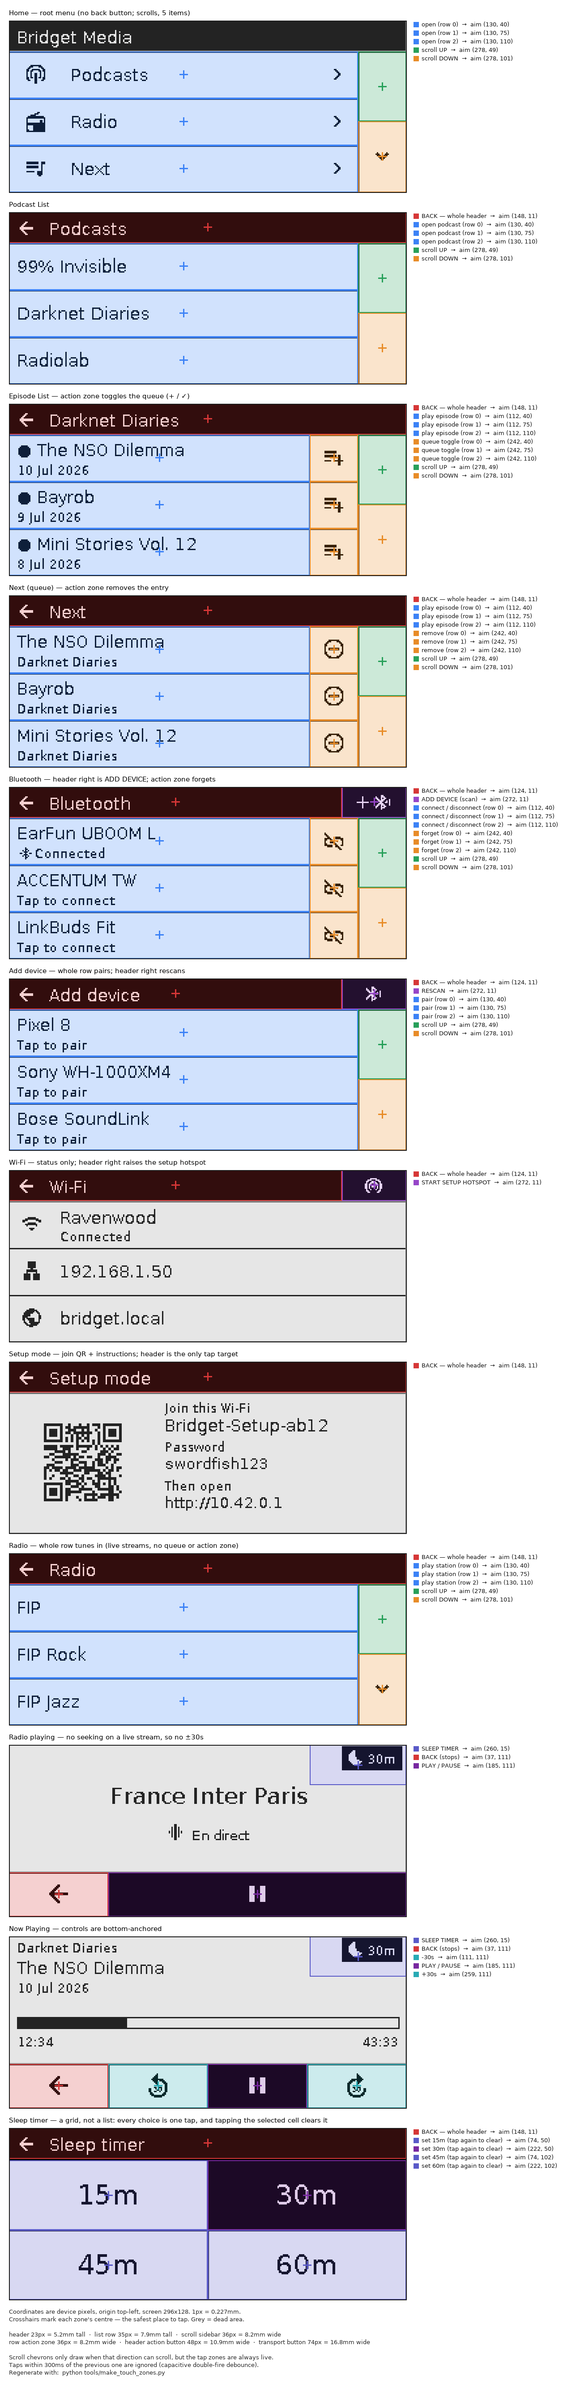
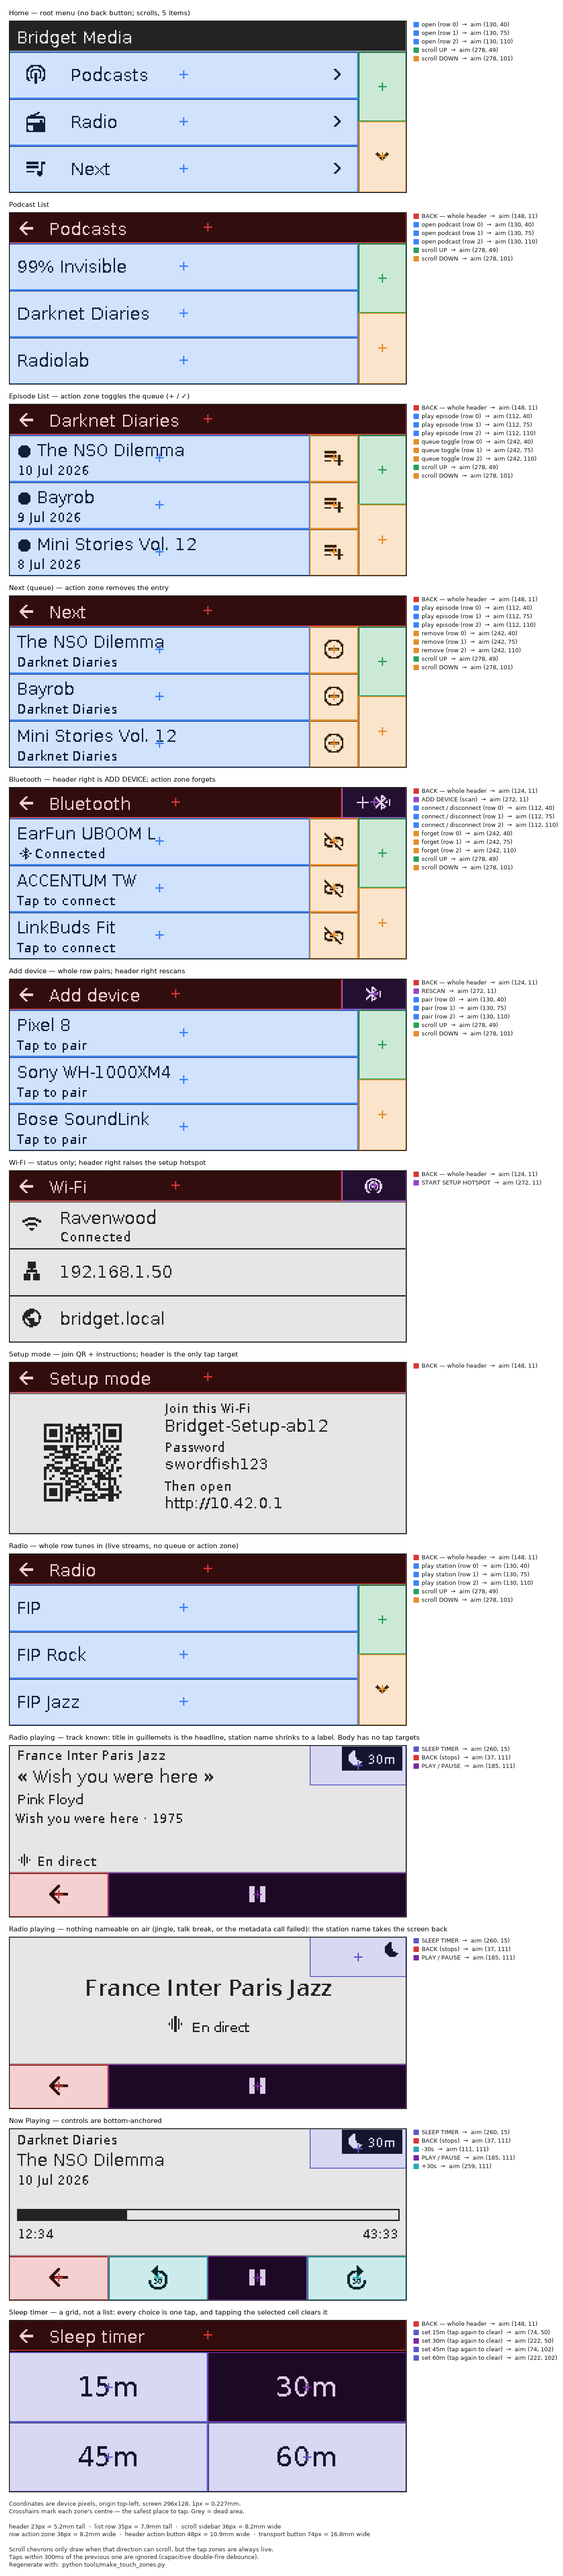
Show both radio-player layouts in touch_zones.png
The generator rendered the radio player with no track, so the reference only
ever showed the fallback layout — the one you see least. It now renders both:
the track layout (title in guillemets, station name as a label, En direct
anchored above the controls) and the station-name fallback for a jingle, a
talk break, or a failed metadata call.

The targets are identical in both, so they share one zone builder rather than
being listed twice.

diff --git a/tools/make_touch_zones.py b/tools/make_touch_zones.py
@@ -119,6 +119,16 @@ def sidebar_zones() -> list[Zone]:
     ]
 
 
+def radio_zones(controls_top: int, button_w: int) -> list[Zone]:
+    """Both radio-player layouts have identical targets — only the body differs."""
+    return [
+        Zone((0, 0, DISPLAY_WIDTH, controls_top), "no action", DEAD, show_aim=False),
+        sleep_zone(),
+        Zone((0, controls_top, button_w, DISPLAY_HEIGHT), "BACK (stops)", BACK),
+        Zone((button_w, controls_top, DISPLAY_WIDTH, DISPLAY_HEIGHT), "PLAY / PAUSE", PRIMARY),
+    ]
+
+
 def sleep_zone() -> Zone:
     """The badge's tap target — deliberately larger than its ink."""
     return Zone(
@@ -191,6 +201,15 @@ def build_screens() -> list[tuple[str, Image.Image, list[Zone]]]:
     stations = [Station(name=n, full_name=f"France Inter Paris {n[4:]}".strip(),
                         stream_url="x", metadata_id=i)
                 for i, n in enumerate(["FIP", "FIP Rock", "FIP Jazz", "FIP Groove"])]
+
+    @dataclass(frozen=True)
+    class Track:
+        title: str
+        artist: str | None
+        album: str | None
+        year: int | None
+
+    track = Track("Wish you were here", "Pink Floyd", "Wish you were here", 1975)
 
     @dataclass(frozen=True)
     class Status:
@@ -272,13 +291,16 @@ def build_screens() -> list[tuple[str, Image.Image, list[Zone]]]:
             [header_back(), *row_zones("play station", ROW, layout.SIDEBAR_X), *sidebar_zones()],
         ),
         (
-            "Radio playing — no seeking on a live stream, so no ±30s",
-            RadioPlayingScreen(stations[0], player, lambda: 30, lambda: None).render(),
-            [Zone((0, 0, DISPLAY_WIDTH, controls_top), "no action", DEAD, show_aim=False),
-             sleep_zone(),
-             Zone((0, controls_top, button_w, DISPLAY_HEIGHT), "BACK (stops)", BACK),
-             Zone((button_w, controls_top, DISPLAY_WIDTH, DISPLAY_HEIGHT),
-                  "PLAY / PAUSE", PRIMARY)],
+            "Radio playing — track known: title in guillemets is the headline, "
+            "station name shrinks to a label. Body has no tap targets",
+            RadioPlayingScreen(stations[2], player, lambda: 30, lambda: track).render(),
+            radio_zones(controls_top, button_w),
+        ),
+        (
+            "Radio playing — nothing nameable on air (jingle, talk break, or the "
+            "metadata call failed): the station name takes the screen back",
+            RadioPlayingScreen(stations[2], player, lambda: None, lambda: None).render(),
+            radio_zones(controls_top, button_w),
         ),
         (
             "Now Playing — controls are bottom-anchored",
